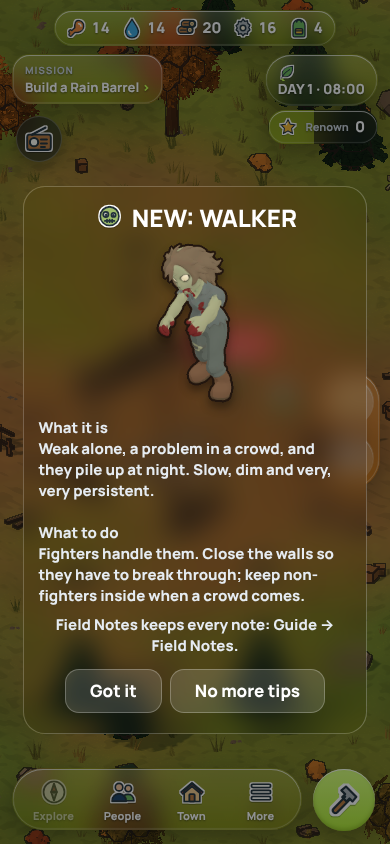
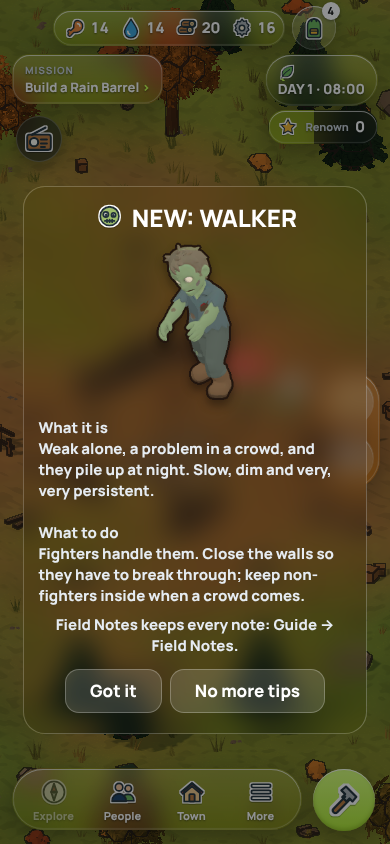
3D.334: phone look: the bag is its own round button beside the resource bar (owner, 23 Nov, W217: A; UI chat)
Claude-Session: https://claude.ai/code/session_017WFo2g4zbX7WQERKjB1fXN

diff --git a/tools/qa/phone_look_check.js b/tools/qa/phone_look_check.js
@@ -2,13 +2,15 @@
 // At six phone sizes:
 //  - a fresh game starts in the phone look (3D.333): the four tabs sit in one capsule, Build is a round button to its right, nothing
 //    overlaps, nothing is off the screen, every one takes taps of 44 px or more, and the resource bar is clear glass;
+//  - the bag is its own round button beside the resource bar (3D.334) and a tap on it opens the supplies list;
 //  - Build, People and Town still open their menus;
 //  - More → Settings → "Phone look" switches it off: the old bar is back with Build in the middle; "off" survives a reload; it switches on again.
 // Pictures (first size): runs/ui_samples/phone_look_{on,off}.png. Usage: node tools/qa/phone_look_check.js  (game served on :8765)
 const Q = require('./lib'); const path = require('path');
 const SIZES = (process.argv[2] || 'phone:390x844,phoneS:360x640,phoneM:375x667,phoneXL:430x932,phoneN:320x568,phoneT:412x915').split(',').map((s) => { const [n, d] = s.split(':'); const [w, h] = d.split('x').map(Number); return { n, w, h }; });
-const TAG = process.argv[3] || '3D.333';
+const TAG = process.argv[3] || '3D.334';
 const box = (p) => p.evaluate(() => { const o = {}; for (const id of ['mExp', 'mSurv', 'mTown', 'mGuide', 'mBuild', 'lmenu']) { const r = document.getElementById(id).getBoundingClientRect(); o[id] = { x: r.x, y: r.y, w: r.width, h: r.height, r: r.right, b: r.bottom }; }
+  { const r = document.querySelector('#plaque .res').getBoundingClientRect(), g = document.querySelector('#plaque .bagChip').getBoundingClientRect(); o.res = { r: r.right }; o.bag = { x: g.x, y: g.y, w: g.width, h: g.height, r: g.right }; }
   o.phone = document.documentElement.classList.contains('phone'); o.sheet = !!document.getElementById('phoneCss'); o.resBg = getComputedStyle(document.querySelector('#plaque .res')).backgroundImage; o.vw = innerWidth; o.vh = innerHeight; return o; });
 const setLook = async (p) => { await p.click('#mGuide'); await p.waitForTimeout(300); await p.evaluate(() => { [...document.querySelectorAll('#ib .setRow, #ib button, #ib .card')].find((e) => /^Settings/.test(e.innerText.trim())).click(); }); await p.waitForTimeout(300); await p.click('#stLook'); await p.waitForTimeout(500); await p.evaluate(() => ZH.closeP()); await p.waitForTimeout(300); };
 (async () => {
@@ -26,6 +28,11 @@ const setLook = async (p) => { await p.click('#mGuide'); await p.waitForTimeout(
       if (a.w < 43.5 || a.h < 43.5) fail(`${S.n}: ${order[k]} takes taps of only ${a.w.toFixed(0)}x${a.h.toFixed(0)}`);
       if (a.x < 0 || a.r > on.vw + .5 || a.b > on.vh + .5) fail(`${S.n}: ${order[k]} is off the screen`);
       if (k && a.x < on[order[k - 1]].r - .5) fail(`${S.n}: ${order[k]} overlaps ${order[k - 1]}`); }
+    /* 3D.334: the bag is its own button beside the bar, big enough to tap, and a tap opens the supplies list */
+    if (on.bag.x < on.res.r) fail(`${S.n}: the bag is still inside the resource bar`);
+    if (on.bag.w < 43.5 || on.bag.h < 43.5) fail(`${S.n}: the bag takes taps of only ${on.bag.w.toFixed(0)}x${on.bag.h.toFixed(0)}`);
+    if (on.bag.x < 0 || on.bag.r > on.vw + .5 || on.bag.y < 0) fail(`${S.n}: the bag is off the screen`);
+    await Q.clearCards(p); await p.click('#plaque .bagChip'); await p.waitForTimeout(300); { const sp = await p.evaluate(() => { const e = document.getElementById('supPop'); if (!e) return null; const r = e.getBoundingClientRect(); return { x: r.x, r: r.right, w: innerWidth }; }); if (!sp) fail(`${S.n}: a tap on the bag did not open the supplies list`); else if (sp.x < 0 || sp.r > sp.w + .5) fail(`${S.n}: the supplies list is off the screen`); if (i === 0) await p.screenshot({ path: path.join(__dirname, '../../runs/ui_samples/phone_look_bag.png') }); await p.click('#plaque .bagChip'); await p.waitForTimeout(200); }
     if (on.mBuild.x < on.lmenu.r) fail(`${S.n}: Build is not beside the tab capsule`);
     if (on.mGuide.r > on.lmenu.r + .5) fail(`${S.n}: More sticks out of the capsule`);
     for (const [id, t] of [['mBuild', 'Build'], ['mSurv', 'People'], ['mTown', 'Town']]) { await Q.clearCards(p); await p.click('#' + id); await p.waitForTimeout(350); const open = await p.evaluate(() => { const e = document.getElementById('infoPanel'); return !!e && getComputedStyle(e).display !== 'none' && e.getBoundingClientRect().height > 100; }); if (!open) fail(`${S.n}: ${t} did not open its menu in the phone look`); await p.evaluate(() => { ZH.closeP(); ZH.endBuildMode(true); }); await p.waitForTimeout(200); }

diff --git a/css/phone.css b/css/phone.css
@@ -24,3 +24,11 @@ html.glass.phone .lm i { height: 32px; } html.glass.phone .lm .zi { width: 32px;
 html.glass.phone #mBuild { position: absolute; left: calc(100% + 12px); top: 0; flex: none; width: 62px; height: 62px; margin: 0; font-size: 0; text-shadow: none;
   background: linear-gradient(180deg, #d6ff78, #b0e834) !important; box-shadow: inset 0 1px 0 rgba(255, 255, 255, .9), inset 0 -2px 4px rgba(80, 110, 0, .35), 0 8px 24px rgba(0, 0, 0, .3); }
 html.glass.phone #mBuild i { height: 40px; } html.glass.phone #mBuild .zi { width: 40px; height: 40px; }
+/* 3D.334 (owner, 23 Nov, W217: "make the inventory separate from the other food water bar. So that player know you can click on it"; mockup A):
+   the bag is its own round button beside the resource bar, its count on a badge, the low-supplies dot on its other corner */
+html.glass.phone #plaque .res { transform: translateX(-26px); padding-right: 8px; }
+html.glass.phone #plaque .res .bagChip { position: absolute; left: calc(100% + 8px); top: 50%; margin: 0; transform: translateY(-50%); width: calc(44px / var(--u, 1)); height: calc(44px / var(--u, 1)); border-radius: 50%;   /* 44 px on the smallest phone too, where the HUD is drawn smaller */ padding: 0; display: grid; place-items: center; cursor: pointer;
+  background: var(--pg); -webkit-backdrop-filter: var(--pgBlur); backdrop-filter: var(--pgBlur); box-shadow: var(--pgEdge); }
+html.glass.phone #plaque .res .bagChip i, html.glass.phone #plaque .res .bagChip i svg { width: 28px; height: 28px; }
+html.glass.phone #plaque .res .bagChip b { position: absolute; right: -4px; top: -4px; min-width: 18px; height: 18px; padding: 0 4px; border-radius: 9px; background: #fff; color: #111; font-size: 11px; line-height: 18px; text-align: center; text-shadow: none; box-shadow: 0 1px 3px rgba(0, 0, 0, .4); }
+html.glass.phone #plaque .res .bagChip .supDot { position: absolute; left: -2px; top: -2px; right: auto; }

diff --git a/js/game.js b/js/game.js
@@ -3,7 +3,7 @@
 'use strict';
 const Iso = window.ZHIso, Wd = window.ZHWorld;
 const SFX = (n) => { if (window.SND) SND.play(n); };   /* V2.21 sound (js/sound.js) */
-const VERSION = '2.57.0', BUILD_TAG = '3D.333', PREV_KEY = 'zombieHavenV25', OLD_KEY = 'zombieHavenV2';
+const VERSION = '2.57.0', BUILD_TAG = '3D.334', PREV_KEY = 'zombieHavenV25', OLD_KEY = 'zombieHavenV2';
 /* V2.40 save slots: slot 1 keeps the old key, so existing towns carry over */
 const SLOT_KEYS = ['zombieHavenR1', 'zombieHavenR1_s2', 'zombieHavenR1_s3']   /* V3D.22 resources: fresh saves (old towns are not converted) */, QS = new URLSearchParams(location.search);
 let SLOT = 1; try { SLOT = Math.min(3, Math.max(1, +localStorage.getItem('zhSlot') || 1)); } catch (e) { /* storage blocked */ }

diff --git a/src/game/01-core.js b/src/game/01-core.js
@@ -3,7 +3,7 @@
 'use strict';
 const Iso = window.ZHIso, Wd = window.ZHWorld;
 const SFX = (n) => { if (window.SND) SND.play(n); };   /* V2.21 sound (js/sound.js) */
-const VERSION = '2.57.0', BUILD_TAG = '3D.333', PREV_KEY = 'zombieHavenV25', OLD_KEY = 'zombieHavenV2';
+const VERSION = '2.57.0', BUILD_TAG = '3D.334', PREV_KEY = 'zombieHavenV25', OLD_KEY = 'zombieHavenV2';
 /* V2.40 save slots: slot 1 keeps the old key, so existing towns carry over */
 const SLOT_KEYS = ['zombieHavenR1', 'zombieHavenR1_s2', 'zombieHavenR1_s3']   /* V3D.22 resources: fresh saves (old towns are not converted) */, QS = new URLSearchParams(location.search);
 let SLOT = 1; try { SLOT = Math.min(3, Math.max(1, +localStorage.getItem('zhSlot') || 1)); } catch (e) { /* storage blocked */ }

diff --git a/docs/project/05-NOW.md b/docs/project/05-NOW.md
@@ -104,10 +104,10 @@ UI chat:
 - W205. Play 3D.268 on the phone: the Renown chip, the Needs you ✕ and Go, the Settings switches (and tapping a setting's words), a survivor's "→ the Camp ›", Gather switch and stat boxes, the People filters, and the move-in card's buttons should all be easy to hit. Right? (The stat and need boxes on a survivor's Status are a little taller.)
 - W80. Play 3D.195 or later and say whether the open menus look right. The menus are Build, People, Town and a survivor's details (tap a person). With one open: no round radio button on the right, the alert button gone where the menu covers it, and "Paused" centred on the menu's top edge. (Owner, 19 Nov, asked which menus: explained.)
 - ~~W208.~~ Owner, 23 Nov: "yes good". Play 3D.272 (live, version 298): (1) the Renown chip has no ring or oval round it (3D.270); (2) start placing a building while a trip is out: the trip timer steps aside and comes back when you place or cancel (3D.271); (3) a newcomer at the gate: the card sits in the middle with the shade round it, like a tip card, and the bottom bar is free (3D.272; the camera still centres on the newcomer, so he stands behind the card). Right?
-- W217. Play 3D.279 (live, version 300): (1) the star beside Renown; (2) the bag on the resource bar shows one number, and a tap opens the supplies list with names and caps and an "Open inventory" button; a dot on the bag when something is low (try a gunner with few rounds). Right? Is the dot's rule right (low ammo for the gunners, no medicine with someone hurt, generators short of fuel)? (That publish also put the Strongholds chat's 3D.277 and 3D.278 live: they were pushed, not yet published.) *(Owner, 23 Nov, 16:31: "star is good. make the inventory separate from the other food water bar. So that player know you can click on it." Two mockups sent with the phone sheet (W249): waiting for A or B. The dot's rule was not answered.)*
+- W217. Play 3D.279 (live, version 300): (1) the star beside Renown; (2) the bag on the resource bar shows one number, and a tap opens the supplies list with names and caps and an "Open inventory" button; a dot on the bag when something is low (try a gunner with few rounds). Right? Is the dot's rule right (low ammo for the gunners, no medicine with someone hurt, generators short of fuel)? (That publish also put the Strongholds chat's 3D.277 and 3D.278 live: they were pushed, not yet published.) *(Owner, 23 Nov, 16:31: "star is good. make the inventory separate from the other food water bar. So that player know you can click on it." Two mockups sent; owner, 16:49: **"A"**. Built in 3D.334 (live): a round button beside the bar. Still open: the dot's rule.)*
 - ~~W245. The valley map, mockups.~~ Five pictures sent 23 Nov (look A paper road map, look B dark glass, two pin cards, day 2). Owner, 23 Nov: **"A is good"**; **"Yes on hide places"** (places nobody has scouted stay hidden until a lead, the radio or a story step reveals them); **no count of the zombies left** in a place ("I don't think we should add how many zombie remain"); **factions get a favour bar**, "with the center as neutral and the bar grow depending on your action", and **as few numbers as possible**; **a background like Google Maps**. Revised mockup: W247.
 - ~~W247. The valley map, revised mockup~~ (look C, from W245's answers). Four pictures sent 23 Nov (`runs/ui_samples/valley_map_C_street_*.png`, `tools/qa/valley_map_mock.js`; nothing built): **a street-map background** like Google Maps (pale land, green parks and forests, blue river and lakes, grey town blocks with streets and building outlines, white roads, Route 9 yellow with its shield, soft hill shading, quiet grey area names, the zone past the cordon hatched red, a compass); **a favour bar under every faction's pin and on its card** (a tick in the middle is neutral; it fills right in blue when they like the Haven, left in coral when they don't; the card says in words where it stands, "Wary of you", and what moves it: trading and helping right, raids left); **no counts**: a sealed place says "Partly cleared" and the risk is said in words ("Bring your best fighters"), leads say "Lead" with no hours, the squad on the road has no timer; the numbers left are level locks ("Level 16"), the herd's "2 days" and the counts on the bottom buttons; **day 2** greys out what is not scouted. Right? If yes, it is built in steps, one per build: (1) the map screen in place of the trip list, with the places, their states and the cards; (2) hiding unscouted places; (3) leads, calls, herds and squads drawn on it; (4) the favour bar (it reads the factions' standing the game already keeps). *(Owner, 23 Nov, 08:35: "i change my mine about the faction favour bar. It didn't look as good as i think. What do you recommend?" The bar is dropped. Two ways sent the same morning (`runs/ui_samples/valley_map_mood_*.png`): **1, a face** on the pin's corner (happy, wary, angry; none for neutral) and on the card a row of five faces, Hostile, Wary, Neutral, Friendly, Allies, with theirs lit; **2, a word** under the pin in the mood's colour (Friends, Neutral, Wary, Rivals) and on the card the word with what changes it. Claude's pick: the word on the map (the faces are too small to read at a glance on a phone) and the row of faces on the card (it shows where they could go). Owner, 08:43: "i like both but the we need to change the icon, please come up with a few sample": so the word on the map and the row of moods on the card, with new icons. Sheet `runs/ui_samples/mood_icon_samples.png` (`tools/qa/mood_icons_mock.html`): **A faces** redrawn bigger in the sticker style, each in the mood's colour; **B hearts** (broken, cracked, empty, full, two together); **C their gate** (spiked shut, barred, shut, opening, wide open with a welcome banner); **D hand signs** (the phone's own emoji: fist, stop, shrug, wave, handshake). Claude's pick: C, the gate (it says what the mood means for you, fits the walled towns, and hearts already mean health). Owner, 08:46: **"A is good but not the allies face. i dont lke the hear eye"**: set A, faces, with a new Allies face. Four sent (`runs/ui_samples/mood_icon_allies_samples.png`): 1 big grin with teeth, 2 wink, 3 warm smile with rosy cheeks, 4 two faces together (blue and teal). Claude's pick: 4 (an ally is the two towns side by side, and it differs most from Friendly). Owner, 08:49: **"W247 use 4"**. **The valley map is settled**: look C (street map), unscouted places hidden, no counts of the dead, few numbers, a faction's mood as a coloured word under its pin and as five faces on its card (Hostile, Wary, Neutral, Friendly, Allies; Allies is two faces together). Built in four steps (above); held for W249 so the screen is built once, in the look chosen there.)*
-- W249. **An iPhone-like look for the whole UI** (owner, 23 Nov, 08:49: "Can we come up with some sample to make the UI like an iphone. it might be interesting. Give me some sample mock up"). Six pictures sent, drawn over the real game scene, each as the town screen and the People menu (`runs/ui_samples/ios_*.png`, `tools/qa/ios_ui_mock.js`; nothing built): **A classic iOS**, light frosted bars, a full-width tab bar with line icons and labels, blue for the selected tab and Build, a sheet with a grabber, a large "People" title, a search field, a segmented control and grouped white lists; **B Liquid Glass** (today's iPhone look), clear glass capsules with bright edges, a floating tab bar with a separate round lime Build button, a floating glass sheet; **C widgets**, a Dynamic Island at the top for the most urgent thing (a herd coming, a squad's timer), Stock and Mission widgets, radio messages as notification banners, a dock of app-style icons, Settings-style lists. No Apple fonts or SF Symbols (their licences forbid it): the game's Manrope type, line icons drawn for the game, the game's sticker icons. Claude's pick: B (closest to today's Glass, the newest iPhone look, keeps lime for go and reads well at night); C covers a third of the town; A's light bars glare at night and need iOS blue instead of lime. Waiting: A, B, C, a mix, or keep today's look. *(Owner, 23 Nov, 09:08: "if i want to go with B, how would we implement that for all the function and interface? Maybe SOS will be like an incoming call from the ally? Warning is like amber alert? ... Show me what fun things can we do with this?" Fifteen screens in look B sent (`runs/ui_samples/phoneB_*.png`, sheets `phoneB_sheet_1..3.png`, `tools/qa/phone_b_mock.js`; nothing built): town, an ally's SOS as an incoming call, a herd warning as an emergency alert, the needs list as a notification centre, Moth FM as Now Playing, the valley map with a Maps-style sheet, a trip with travel modes, People as a contacts list with swipe actions, a survivor's contact card with activity rings, inventory as a photo grid, an item with a Give to row, Build as folders, faction messages as a text thread, the daily report as Screen Time, Settings. The plan, twelve fun ideas and about 18 builds behind a "Look: Glass / Phone" setting are in `18-PHONE-LOOK.md`. Waiting: go with B behind the setting? Which fun ideas? Changes? Owner, 23 Nov, 10:08: **"For the whole game."** (look B is decided); of the fun ideas listed in the chat, **"I like 1 to 6"** (missed calls and voicemail, factions texting with a history, Moth FM's old broadcasts and tapes as episodes, While you were away, Update ready for a level-up, Memories), **"i dont understand 7"** (the town's rings); 8, the phone shaking on big hits, was not answered; on the pictures, with the tab bar circled: **"i think these circle should be colored"** and **"we should have the option be able to see the character half body shot for each character instead of the letter"**. Sent the same morning (`runs/ui_samples/phoneB2_*.png`, `tools/qa/phone_b2_mock.js`; nothing built): the tab bar three ways, **A** the game's sticker icons, **B** coloured line icons (Explore blue, People pink, Town amber, More violet), **C** coloured round badges with a white sign (Claude's pick: C); the survivors' own pictures in place of letters, the People page's chest-up shot in the round spots (lists, squad, Give to) and a half-body shot on a survivor's card (the game already makes both from each person's 3D model, outfit and gear); and idea 7 drawn on the Town tab: three rings for the whole town, Fed, Beds, Walls, each full when that is fine, with what would close each ring listed under them. Waiting: A, B or C for the tab bar; are the pictures right, and pictures always or a setting to switch back to letters; the town's rings yes or no; the phone shaking yes or no. Owner, 23 Nov, 10:26: **"W249 use A"** (the tab bar uses the game's sticker icons); the pictures: **"It should zoom out just be a bit more so you can see the weapon and armor. Yes correct."** (pictures always, no letters); **"what is the town's rings?"** (explained again in plain words); **"no need for shake"**. Sent: `phoneB2_sheet_v2.png`, the round spots from the hips up and the card from the knees up, each person holding their weapon and wearing their armour. Waiting: is that zoom right; the town's rings yes or no; then building starts with step 0 and 1 of `18-PHONE-LOOK.md`. Owner, 23 Nov, 10:33: **"new zoom is good"**; **"no ring, use bar, use bar also for the character hunger and rest type bar"**: no rings anywhere; a survivor's Health (a count, as always), Food, Rest and Mood are bars, and the Town tab shows the town's Fed, Beds and Walls as bars with what would fill each under them (picture sent: `phoneB2_bars_sheet.png`). **The look is settled.** Next: building, one change per build behind the Look setting, starting with the shared parts and the town screen; the owner can still mark the bars picture. Owner, 23 Nov, 10:40: **"there is no more thirst/water bar for town or character? other than that its a go"**. Water was left off the picture by mistake: a survivor's bars are Health, Food, Water, Rest and Mood (the game tracks thirst), the town's are Food, Water, Beds and Walls. **Building has started. 3D.317** (pushed, not published): Settings has a **Phone look** switch (off by default; the Glass look is untouched when it is off) and the town screen is the first screen in the new look: clear glass on the resource bar, mission, clock, news line and side buttons; the four tabs in one floating capsule with the round lime Build button beside it. Check `node tools/qa/phone_look_check.js` (six phone sizes). Not published: `js/game.js` also holds the other chats' builds that are being held (W223). Next build: one sheet for every menu. Owner, 23 Nov, 12:16: **"We are going with the phone look, what i mean for switch is that you can have the half body shot on the character menu or turn it off and just have the 'M' for marcus"**: the switch the owner asked for is **Survivor pictures: on (their picture) or off (the first letter)**, in Settings, on by default (Claude's choice of default); it is built with the People screen. The Phone look switch of 3D.317 is only for the time the screens are being converted, so finished and unfinished screens are not mixed; it goes when every screen is done and the phone look is the only look. Same message: "What will be publish other than the stronghold map if we publish 3D.317?": listed in the chat (healing, the rescue truck, the daytime roamers, the first-30-minutes builds, real-time levels and building while away, herb beds, the breather after a lost night). Waiting: publish or keep holding. Owner, 23 Nov, 16:10: **"ok time to publish"**. **Published: version 301 = 3D.332** (page cache tag v=3d.332; files: `js/game.js`, `js/render3d.js`, `css/glass.css`, `css/cozy.css`, the new `css/phone.css`, the page). Everything pushed since 3D.279 is live, including what was pushed after the list in the chat: 3D.320 to 3D.331 (the strongholds at real sizes, teams of two, the player leads the squad) and **3D.332, A12, zombies never walk away** (merged by the Balance chat on the owner's W248). To see the phone look: More → Settings → Phone look. Owner, 23 Nov, 16:17: **"how come the phone type UI wasn't published?"** It was live but switched off by default, and only the town screen is converted so far. **3D.333 (live, version 302): the phone look is on by default**; More → Settings → Phone look switches it off (the old look), and that choice is kept. The older UI checks in `tools/qa` still measure the old look (`Q.page` sets it unless told otherwise) until each screen is converted. Owner, 23 Nov, 16:31: **"W249, looks good"** (the town screen); **"Start building of the phone UI type for the whole game. Give me mock up for each and approved before we push"**: from here every phone-look build is shown as a picture first and built only after the owner's yes. Sent (`runs/ui_samples/phoneC_*.png`, `tools/qa/phone_sheet_mock.js`, prototype styles on the real game; nothing built): **step 2, the sheet**: the real People, Build, Town, More and survivor menus in a floating dark-glass sheet with round corners, a big title on the left, a round close button, softer cards and capsule tabs; no drag handle (the sheet cannot be dragged, and the Paused pill sits on its top edge); **the bag as its own button** (W217), two ways: A a round button beside the bar with the count on a badge, B its own capsule with an arrow (Claude's pick: A). Waiting: the sheet yes or changes; bag A or B.)*
+- W249. **An iPhone-like look for the whole UI** (owner, 23 Nov, 08:49: "Can we come up with some sample to make the UI like an iphone. it might be interesting. Give me some sample mock up"). Six pictures sent, drawn over the real game scene, each as the town screen and the People menu (`runs/ui_samples/ios_*.png`, `tools/qa/ios_ui_mock.js`; nothing built): **A classic iOS**, light frosted bars, a full-width tab bar with line icons and labels, blue for the selected tab and Build, a sheet with a grabber, a large "People" title, a search field, a segmented control and grouped white lists; **B Liquid Glass** (today's iPhone look), clear glass capsules with bright edges, a floating tab bar with a separate round lime Build button, a floating glass sheet; **C widgets**, a Dynamic Island at the top for the most urgent thing (a herd coming, a squad's timer), Stock and Mission widgets, radio messages as notification banners, a dock of app-style icons, Settings-style lists. No Apple fonts or SF Symbols (their licences forbid it): the game's Manrope type, line icons drawn for the game, the game's sticker icons. Claude's pick: B (closest to today's Glass, the newest iPhone look, keeps lime for go and reads well at night); C covers a third of the town; A's light bars glare at night and need iOS blue instead of lime. Waiting: A, B, C, a mix, or keep today's look. *(Owner, 23 Nov, 09:08: "if i want to go with B, how would we implement that for all the function and interface? Maybe SOS will be like an incoming call from the ally? Warning is like amber alert? ... Show me what fun things can we do with this?" Fifteen screens in look B sent (`runs/ui_samples/phoneB_*.png`, sheets `phoneB_sheet_1..3.png`, `tools/qa/phone_b_mock.js`; nothing built): town, an ally's SOS as an incoming call, a herd warning as an emergency alert, the needs list as a notification centre, Moth FM as Now Playing, the valley map with a Maps-style sheet, a trip with travel modes, People as a contacts list with swipe actions, a survivor's contact card with activity rings, inventory as a photo grid, an item with a Give to row, Build as folders, faction messages as a text thread, the daily report as Screen Time, Settings. The plan, twelve fun ideas and about 18 builds behind a "Look: Glass / Phone" setting are in `18-PHONE-LOOK.md`. Waiting: go with B behind the setting? Which fun ideas? Changes? Owner, 23 Nov, 10:08: **"For the whole game."** (look B is decided); of the fun ideas listed in the chat, **"I like 1 to 6"** (missed calls and voicemail, factions texting with a history, Moth FM's old broadcasts and tapes as episodes, While you were away, Update ready for a level-up, Memories), **"i dont understand 7"** (the town's rings); 8, the phone shaking on big hits, was not answered; on the pictures, with the tab bar circled: **"i think these circle should be colored"** and **"we should have the option be able to see the character half body shot for each character instead of the letter"**. Sent the same morning (`runs/ui_samples/phoneB2_*.png`, `tools/qa/phone_b2_mock.js`; nothing built): the tab bar three ways, **A** the game's sticker icons, **B** coloured line icons (Explore blue, People pink, Town amber, More violet), **C** coloured round badges with a white sign (Claude's pick: C); the survivors' own pictures in place of letters, the People page's chest-up shot in the round spots (lists, squad, Give to) and a half-body shot on a survivor's card (the game already makes both from each person's 3D model, outfit and gear); and idea 7 drawn on the Town tab: three rings for the whole town, Fed, Beds, Walls, each full when that is fine, with what would close each ring listed under them. Waiting: A, B or C for the tab bar; are the pictures right, and pictures always or a setting to switch back to letters; the town's rings yes or no; the phone shaking yes or no. Owner, 23 Nov, 10:26: **"W249 use A"** (the tab bar uses the game's sticker icons); the pictures: **"It should zoom out just be a bit more so you can see the weapon and armor. Yes correct."** (pictures always, no letters); **"what is the town's rings?"** (explained again in plain words); **"no need for shake"**. Sent: `phoneB2_sheet_v2.png`, the round spots from the hips up and the card from the knees up, each person holding their weapon and wearing their armour. Waiting: is that zoom right; the town's rings yes or no; then building starts with step 0 and 1 of `18-PHONE-LOOK.md`. Owner, 23 Nov, 10:33: **"new zoom is good"**; **"no ring, use bar, use bar also for the character hunger and rest type bar"**: no rings anywhere; a survivor's Health (a count, as always), Food, Rest and Mood are bars, and the Town tab shows the town's Fed, Beds and Walls as bars with what would fill each under them (picture sent: `phoneB2_bars_sheet.png`). **The look is settled.** Next: building, one change per build behind the Look setting, starting with the shared parts and the town screen; the owner can still mark the bars picture. Owner, 23 Nov, 10:40: **"there is no more thirst/water bar for town or character? other than that its a go"**. Water was left off the picture by mistake: a survivor's bars are Health, Food, Water, Rest and Mood (the game tracks thirst), the town's are Food, Water, Beds and Walls. **Building has started. 3D.317** (pushed, not published): Settings has a **Phone look** switch (off by default; the Glass look is untouched when it is off) and the town screen is the first screen in the new look: clear glass on the resource bar, mission, clock, news line and side buttons; the four tabs in one floating capsule with the round lime Build button beside it. Check `node tools/qa/phone_look_check.js` (six phone sizes). Not published: `js/game.js` also holds the other chats' builds that are being held (W223). Next build: one sheet for every menu. Owner, 23 Nov, 12:16: **"We are going with the phone look, what i mean for switch is that you can have the half body shot on the character menu or turn it off and just have the 'M' for marcus"**: the switch the owner asked for is **Survivor pictures: on (their picture) or off (the first letter)**, in Settings, on by default (Claude's choice of default); it is built with the People screen. The Phone look switch of 3D.317 is only for the time the screens are being converted, so finished and unfinished screens are not mixed; it goes when every screen is done and the phone look is the only look. Same message: "What will be publish other than the stronghold map if we publish 3D.317?": listed in the chat (healing, the rescue truck, the daytime roamers, the first-30-minutes builds, real-time levels and building while away, herb beds, the breather after a lost night). Waiting: publish or keep holding. Owner, 23 Nov, 16:10: **"ok time to publish"**. **Published: version 301 = 3D.332** (page cache tag v=3d.332; files: `js/game.js`, `js/render3d.js`, `css/glass.css`, `css/cozy.css`, the new `css/phone.css`, the page). Everything pushed since 3D.279 is live, including what was pushed after the list in the chat: 3D.320 to 3D.331 (the strongholds at real sizes, teams of two, the player leads the squad) and **3D.332, A12, zombies never walk away** (merged by the Balance chat on the owner's W248). To see the phone look: More → Settings → Phone look. Owner, 23 Nov, 16:17: **"how come the phone type UI wasn't published?"** It was live but switched off by default, and only the town screen is converted so far. **3D.333 (live, version 302): the phone look is on by default**; More → Settings → Phone look switches it off (the old look), and that choice is kept. The older UI checks in `tools/qa` still measure the old look (`Q.page` sets it unless told otherwise) until each screen is converted. Owner, 23 Nov, 16:31: **"W249, looks good"** (the town screen); **"Start building of the phone UI type for the whole game. Give me mock up for each and approved before we push"**: from here every phone-look build is shown as a picture first and built only after the owner's yes. Sent (`runs/ui_samples/phoneC_*.png`, `tools/qa/phone_sheet_mock.js`, prototype styles on the real game; nothing built): **step 2, the sheet**: the real People, Build, Town, More and survivor menus in a floating dark-glass sheet with round corners, a big title on the left, a round close button, softer cards and capsule tabs; no drag handle (the sheet cannot be dragged, and the Paused pill sits on its top edge); **the bag as its own button** (W217), two ways: A a round button beside the bar with the count on a badge, B its own capsule with an arrow (Claude's pick: A). Owner, 23 Nov, 16:49: **"it doesn't have the iphone UI feel like you had for the previous mock up"** (the sheet) and **"W217, A"**. The frame-only sheet is dropped: each menu is rebuilt inside as in the first pictures. Sent: `phoneD_menus_sheet.png` (`PB2_MENUS=1 node tools/qa/phone_b2_mock.js`), the five menus as full phone screens with everything decided since (sticker tabs, survivor pictures, bars with water, the handle back on the sheet and the Paused pill moved under the resource bar): People as a contact list, a survivor's page, Build as folders, Town with its bars, Settings as a grouped list. **3D.334 (live): the bag is its own round button** beside the resource bar, count on a badge, 44 px on every phone; a tap opens the supplies list as before. Waiting: are the five menus the targets (one per build, People first), or changes.)*
 - ~~W209. An icon next to Renown.~~ Sheet `renown_icon_samples.png` (21 Nov: A medal, B star, C trophy, D crown). Owner, 22 Nov: "Do star for renown". **Built in 3D.275** (live, version 300): a star sits left of the word in the Renown chip; check `tools/qa/renown_icon_check.js`.
 - ~~W210. The resource bar.~~ The "9·1·0" was the stash chip (cloth · medicine · fuel, no labels). Sheet `resource_bar_samples.png` (22 Nov: A one row, B two rows, C the bag with a total and a list). Owner, 22 Nov: "do C for resource". **Built in 3D.279** (live, version 300): the bag shows one number (cloth + medicine + fuel) and a small orange dot when something is low (a gunner with fewer than 8 rounds each; no medicine while someone is under 60% health; generators with less than 3 fuel each); ammo is off the bar. A tap on the bag opens a short list under it: Cloth, Medicine, Fuel, Ammo, each with its count, cap and a bar, low ones in orange, and "Open inventory" (before, the bag opened the Inventory straight away). A tap elsewhere or on the bag again closes it; it also closes when a menu or card opens. Check `tools/qa/supplies_check.js`.
 

diff --git a/docs/project/04-UI.md b/docs/project/04-UI.md
@@ -108,7 +108,7 @@ Every row was checked by Claude against the screens before logging; sizes were m
 | U55 | Renown has no icon beside it (owner, 21 Nov: "give me some sample before you commit") | **fixed in 3D.275** (owner, 22 Nov, W209: "Do star for renown"): a star left of the word; check `node tools/qa/renown_icon_check.js`; waiting for the owner (W217) |
 | U56 | The resource bar's "9·1·0" is confusing (owner, 22 Nov): it is the stash chip, cloth · medicine · fuel as one number with no labels | **fixed in 3D.279** (owner, 22 Nov, W210: "do C for resource"): the bag shows one total and a dot when something is low; ammo left the bar; a tap opens the supplies list (names, caps, bars, low ones orange) with "Open inventory"; check `node tools/qa/supplies_check.js`; waiting for the owner (W217) |
 | U57 | The trip list becomes a **map of the valley** (owner, 22 Nov, W237, from the Strongholds chat: "it seems like we will need to make a map for the entire game"): every place a pin showing its state, herds, calls, leads and squads out on it, tap a pin for its card; places and where they lie in `15-STRONGHOLDS.md`, 10.10 | **settled 23 Nov** (W245, W247): look C street map, unscouted places hidden, no counts of the dead, few numbers, a faction's mood as a word on the map and five faces on its card (set A; Allies two faces together). Four builds, held for W249 (the iPhone look) |
-| U58 | An iPhone-like look for the whole UI (owner, 23 Nov: "it might be interesting") | open: mockups A classic iOS, B Liquid Glass, C widgets with a Dynamic Island and a dock, `node tools/qa/ios_ui_mock.js`; **decided 23 Nov: look B for the whole game** (plan and all 15 screens: `18-PHONE-LOOK.md`, `node tools/qa/phone_b_mock.js`); the tab bar uses the game's sticker icons, survivors are shown by their own picture (zoomed out to show weapon and armour), bars and no rings, no shake (`node tools/qa/phone_b2_mock.js`); settled 23 Nov; built one change per build behind Settings → Phone look: **3D.317** the switch and the town screen (`node tools/qa/phone_look_check.js`; live since version 301), **3D.333** on by default (live, version 302); build log in `18-PHONE-LOOK.md`, section 7 (W249) |
+| U58 | An iPhone-like look for the whole UI (owner, 23 Nov: "it might be interesting") | open: mockups A classic iOS, B Liquid Glass, C widgets with a Dynamic Island and a dock, `node tools/qa/ios_ui_mock.js`; **decided 23 Nov: look B for the whole game** (plan and all 15 screens: `18-PHONE-LOOK.md`, `node tools/qa/phone_b_mock.js`); the tab bar uses the game's sticker icons, survivors are shown by their own picture (zoomed out to show weapon and armour), bars and no rings, no shake (`node tools/qa/phone_b2_mock.js`); settled 23 Nov; built one change per build behind Settings → Phone look: **3D.317** the switch and the town screen (`node tools/qa/phone_look_check.js`; live since version 301), **3D.333** on by default (live, version 302), **3D.334** the bag as its own button (live); build log in `18-PHONE-LOOK.md`, section 7 (W249) |
 
 Health shown as "49/101" (screens 04, 11, 16) is not a problem: the owner decided on 18 Nov (W108) that health stays a count.
 

diff --git a/docs/project/18-PHONE-LOOK.md b/docs/project/18-PHONE-LOOK.md
@@ -98,10 +98,13 @@ Owner, 23 Nov, 12:16: the switch the owner meant is **Survivor pictures** in Set
 
 Owner, 23 Nov, 16:31: the town screen "looks good". **From here: a mockup for each step, built and pushed only after the owner approves it** ("Give me mock up for each and approved before we push"). Step 2's mockup (the sheet on the real menus) and the bag as its own button (W217) were sent the same hour: `phoneC_sheet_sheet.png`, `phoneC_bag_sheet.png` (`tools/qa/phone_sheet_mock.js`). The sheet has no drag handle.
 
+Owner, 23 Nov, 16:49: the frame-only sheet "doesn't have the iphone UI feel like you had for the previous mock up". **A menu is not converted by restyling its frame: its inside is rebuilt** as in the concept pictures (large title, search, segmented control, grouped lists with chevrons, folders). Targets sent: `phoneD_menus_sheet.png` (People, a survivor's page, Build, Town, Settings). The handle is back on the sheet (drag down to close is built with it) and the Paused pill sits under the resource bar.
+
 ## 7. Build log
 | Build | What | Check | State |
 |---|---|---|---|
 | 3D.317 | Step 0 and 1: the **Phone look** switch in Settings (off by default; `OPTS.look`, `applyLook()` in `src/game/05-alerts.js`; the game adds `css/phone.css` itself, so the published page does not change) and the town screen: clear glass on the resource bar, mission, clock, news line and side buttons; the four tabs in one floating capsule; Build a round lime button beside it (icon only) | `node tools/qa/phone_look_check.js` (six sizes: off by default and unchanged, on from Settings, nothing overlaps or leaves the screen, taps 44 px+, menus still open, survives a reload, off again) | **live** since version 301 (23 Nov, published as 3D.332 on the owner's "ok time to publish") |
 | 3D.333 | **The phone look is on by default** (owner, 23 Nov, 16:17: "how come the phone type UI wasn't published?"); Settings → Phone look switches it off and the choice is kept. `tools/qa/lib.js`: `Q.page` keeps the older checks on the old look (`look: 'glass'`) until their screens are converted; pass `look: ''` for the game's default | the same check, now starting from the default | **live**, version 302 |
+| 3D.334 | **The bag is its own round button** beside the resource bar (W217, mockup A): count on a badge, the low dot on the other corner, 44 px on the smallest phone; a tap opens the supplies list | the same check: the bag is outside the bar, 44 px+, on screen, opens the list | **live** |
 
 Not in 3D.317, each its own build: the live pill (the most urgent thing, under the resource bar), the weather in the clock. Next: step 2, one sheet for every menu.
